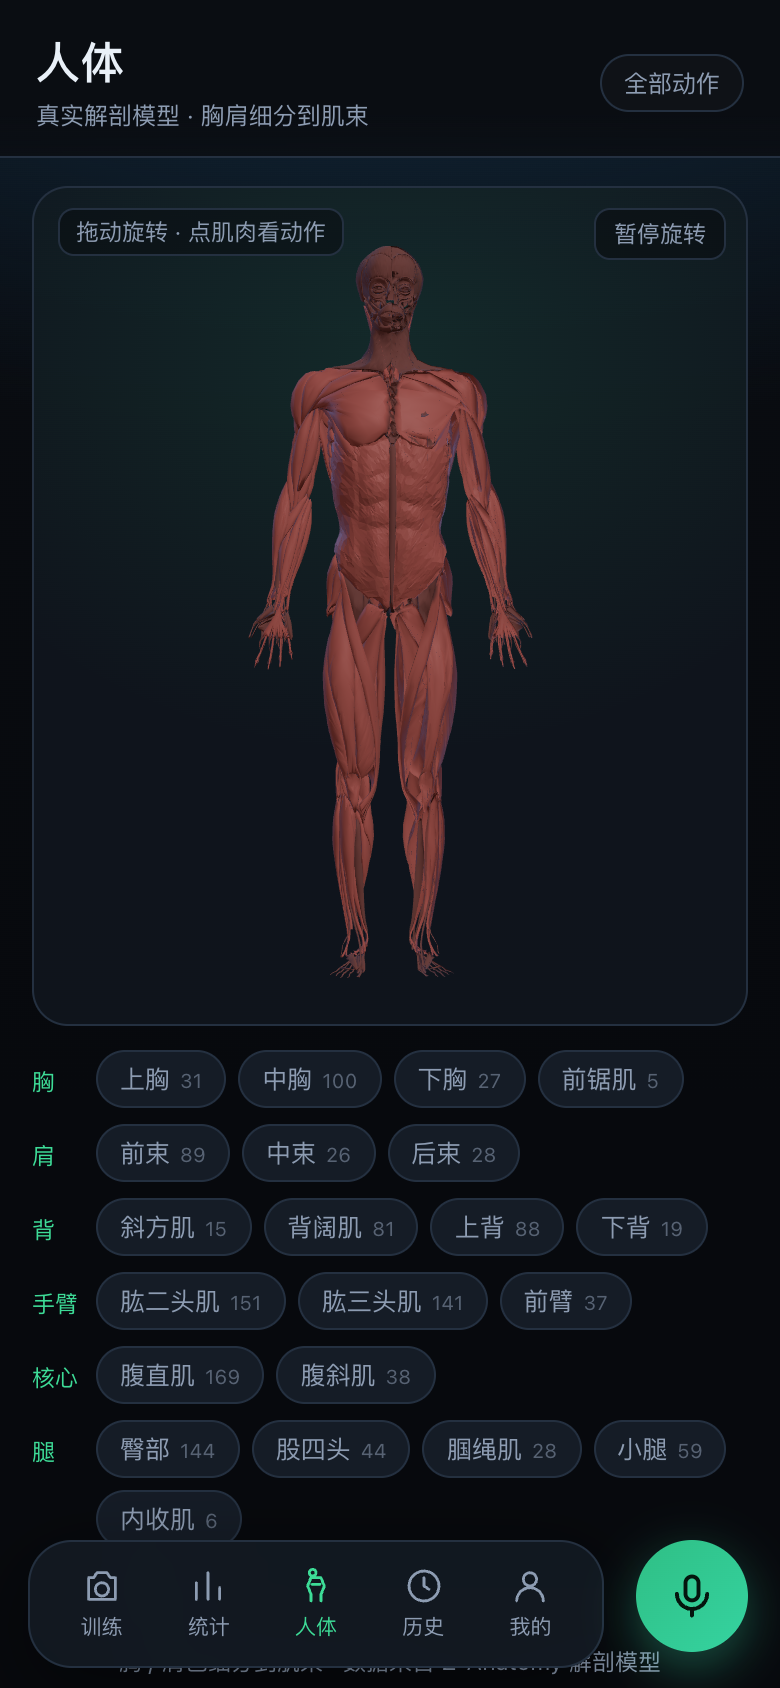
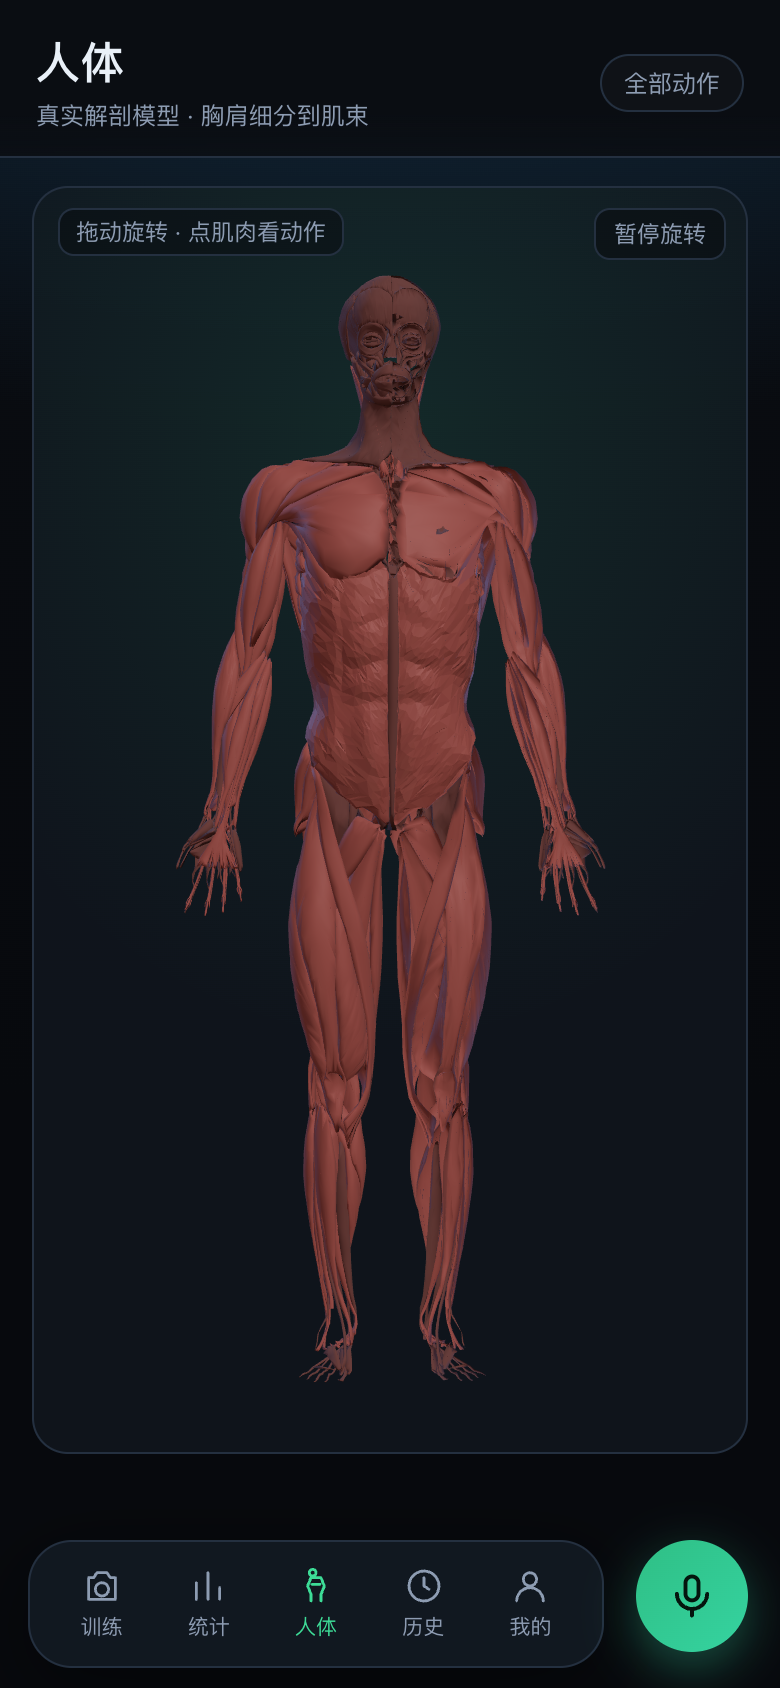
style(人体): 去掉模型下方的肌肉列表，3D 模型占满整屏
- 移除 /body 底部的肌肉 chips 区块，页面只留解剖模型 + 动作弹层
- 画布高度改为 clamp(380px, 100dvh-210px, 680px)，铺满可视区
- 新增 /body?muscle=chest_upper 深链，可直接打开某块肌肉的动作
- 无 WebGL 时的提示改为引导去动作库

diff --git a/components/BodyAtlas.tsx b/components/BodyAtlas.tsx
@@ -5,7 +5,7 @@ import * as THREE from 'three';
 import { OrbitControls } from 'three/examples/jsm/controls/OrbitControls.js';
 import { GLTFLoader } from 'three/examples/jsm/loaders/GLTFLoader.js';
 import { DRACOLoader } from 'three/examples/jsm/loaders/DRACOLoader.js';
-import { MUSCLES, REGIONS, groupForMeshName, muscleById, type MuscleId } from '@/lib/muscles';
+import { groupForMeshName, muscleById, type MuscleId } from '@/lib/muscles';
 import { EQUIPMENT_LABEL, TARGET_LABEL, imageUrl } from '@/lib/exercise-label';
 import AddToPlanButton from './AddToPlanButton';
 
@@ -44,7 +44,6 @@ export default function BodyAtlas() {
   const [autoRotate, setAutoRotate] = useState(true);
   const [loading, setLoading] = useState(true);
   const [failed, setFailed] = useState('');
-  const [counts, setCounts] = useState<Record<string, number>>({});
   const [data, setData] = useState<ApiResult | null>(null);
   const [loadingList, setLoadingList] = useState(false);
 
@@ -267,20 +266,6 @@ export default function BodyAtlas() {
     }
   }, [selected, hovered, loading]);
 
-  /* ------------------------------ 计数 & 动作 ------------------------------ */
-  useEffect(() => {
-    let cancelled = false;
-    fetch('/api/exercises?limit=1', { cache: 'no-store' })
-      .then((r) => r.json())
-      .then((d: ApiResult) => {
-        if (!cancelled && d.counts) setCounts(d.counts);
-      })
-      .catch(() => {});
-    return () => {
-      cancelled = true;
-    };
-  }, []);
-
   useEffect(() => {
     if (!selected) {
       setData(null);
@@ -311,6 +296,12 @@ export default function BodyAtlas() {
     setAutoRotate(api.controls.autoRotate);
   }, []);
 
+  // 支持 /body?muscle=chest_upper 直接打开某块肌肉
+  useEffect(() => {
+    const m = new URLSearchParams(window.location.search).get('muscle');
+    if (m && muscleById(m)) setSelected(m as MuscleId);
+  }, []);
+
   const selectedDef = selected ? muscleById(selected) : null;
 
   return (
@@ -321,7 +312,7 @@ export default function BodyAtlas() {
           {failed && (
             <div className="body-fallback">
               <p>{failed}</p>
-              <p className="hint">下面的肌肉列表仍然可以点，动作数据照常可用。</p>
+              <p className="hint">换个新版 Chrome / Safari 试试；也可以去动作库按部位浏览。</p>
             </div>
           )}
           {!failed && (
@@ -340,31 +331,6 @@ export default function BodyAtlas() {
           )}
         </div>
 
-        <div className="muscle-regions">
-          {REGIONS.map((region) => {
-            const list = MUSCLES.filter((m) => m.region === region);
-            if (!list.length) return null;
-            return (
-              <div className="region-row" key={region}>
-                <span className="region-label">{region}</span>
-                <div className="region-chips">
-                  {list.map((m) => (
-                    <button
-                      key={m.id}
-                      type="button"
-                      className={`muscle-chip ${selected === m.id ? 'on' : ''}`}
-                      onClick={() => setSelected((cur) => (cur === m.id ? null : m.id))}
-                    >
-                      {m.label}
-                      <em>{counts[m.id] ?? ''}</em>
-                    </button>
-                  ))}
-                </div>
-              </div>
-            );
-          })}
-        </div>
-        <p className="body-tip">胸 / 肩已细分到肌束 · 数据来自 Z-Anatomy 解剖模型</p>
       </div>
 
       {selected && (

diff --git a/app/globals.css b/app/globals.css
@@ -2528,7 +2528,7 @@ a.chip-btn {
 .body-canvas {
   position: relative;
   width: 100%;
-  height: min(52vh, 420px);
+  height: clamp(380px, calc(100dvh - 210px), 680px);
   border-radius: 18px;
   background:
     radial-gradient(120% 80% at 50% 20%, rgba(61, 220, 151, 0.1), transparent 60%),
@@ -2614,12 +2614,6 @@ a.chip-btn {
   background: rgba(61, 220, 151, 0.1);
 }
 
-.body-tip {
-  margin: 0;
-  font-size: 11.5px;
-  color: var(--muted);
-  text-align: center;
-}
 
 /* 肌肉动作弹层 */
 
@@ -2782,29 +2776,6 @@ a.chip-btn {
   background: rgba(10, 13, 18, 0.5);
 }
 
-.muscle-regions {
-  display: flex;
-  flex-direction: column;
-  gap: 8px;
-}
 
-.region-row {
-  display: flex;
-  gap: 8px;
-  align-items: flex-start;
-}
 
-.region-label {
-  flex: none;
-  width: 24px;
-  font-size: 11.5px;
-  color: var(--accent);
-  padding-top: 8px;
-}
 
-.region-chips {
-  display: flex;
-  flex-wrap: wrap;
-  gap: 6px;
-  flex: 1;
-}

diff --git a/README.md b/README.md
@@ -37,8 +37,10 @@
 
 - 模型：Z-Anatomy 解剖数据导出的 `body.glb`（7.9MB，DRACO 压缩，440 块肌肉网格），按解剖学命名，
   例如 *Clavicular Head Of Pectoralis Major* = 上胸、*Sternocostal Head* = 中胸、*Abdominal Part* = 下胸
+- 直接在 3D 模型上点肌肉（页面不再放肌肉列表，模型占满整屏）
 - 可点 22 个肌肉区：胸（上/中/下/前锯肌）、肩（前中后束）、背（斜方/背阔/上背/下背）、
   手臂（二头/三头/前臂）、核心（腹直/腹斜）、腿（臀/股四头/腘绳/小腿/内收）、颈
+- 支持深链 `/body?muscle=chest_upper` 直接打开某块肌肉
 - 点选后整块肌肉组高亮，弹层给出该肌束的动作；动作归类在 `lib/muscles.ts`（按 target + 动作名关键词细分）
 - 自动旋转可暂停，支持惯性拖动、缩放；未映射的小肌肉显示为暗红、不可点
 
